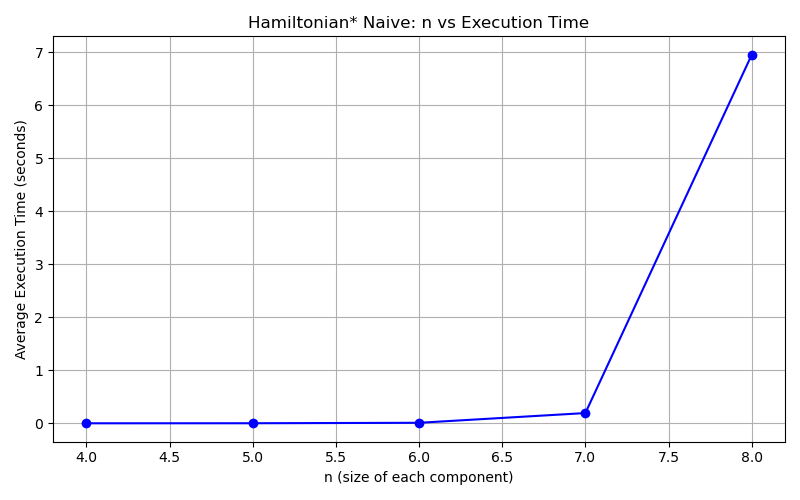
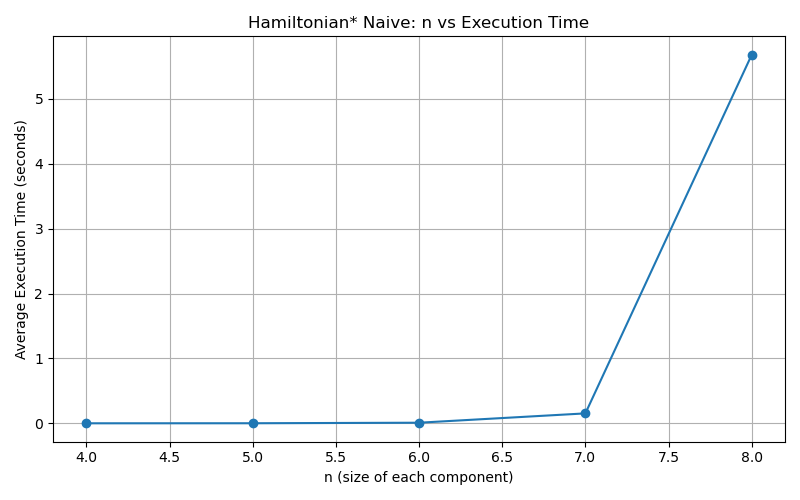
results with randomized (graph, start, end) for every test in the same ns

diff --git a/src/experiment.py b/src/experiment.py
@@ -1,48 +1,52 @@
 import time
 import matplotlib.pyplot as plt
 import random
-from src.graph_construction import generate_tricky_graph  # adjust name if needed
-from src.solution import hamiltonian_naive, hamiltonian_optimized
+from graph_construction import generate_tricky_graph
+from solution import hamiltonian_optimized, hamiltonian_naive    # or hamiltonian_naive
 
 random.seed(31)
 
-def measure_runtime(func, *args, rounds=10):
-    """Return average execution time over multiple rounds."""
+def measure_runtime(func, n, rounds=10):
+    """
+    Measure average runtime across different random graphs.
+    Graph construction is excluded from timing.
+    """
     times = []
     for _ in range(rounds):
-        start_t = time.perf_counter()
-        func(*args)
-        end_t = time.perf_counter()
-        times.append(end_t - start_t)
+        # generate a new graph (excluded from timing)
+        graph, start, end = generate_tricky_graph(n)
+
+        # measure only Hamiltonian* call
+        t0 = time.perf_counter()
+        func(graph, start, end)
+        t1 = time.perf_counter()
+
+        times.append(t1 - t0)
     return sum(times) / len(times)
 
+
 def main():
-    ns = [4, 5, 6, 7, 8]   # ≥4, at least five different values
+    ns = [4, 5, 6, 7, 8]   # ≥ 4, at least 5 different values
     avg_times = []
 
     for n in ns:
         print(f"\nRunning experiments for n = {n}...")
-        N = 3 * n
 
-        # generate graph once per round group (excluded from timing)
-        graph, start, end = generate_tricky_graph(n)
-
-        # measure runtime for 10 runs (excluding construction)
-        avg_time = measure_runtime(hamiltonian_optimized, graph, start, end, rounds=10)
+        avg_time = measure_runtime(hamiltonian_naive, n, rounds=10)
         avg_times.append(avg_time)
 
         print(f"Average time for n={n}: {avg_time:.7f} seconds")
 
-    # plot results
     plt.figure(figsize=(8,5))
-    plt.plot(ns, avg_times, marker='o', linestyle='-', color='b')
+    plt.plot(ns, avg_times, marker='o', linestyle='-')
     plt.xlabel("n (size of each component)")
     plt.ylabel("Average Execution Time (seconds)")
-    plt.title("Hamiltonian* Optimized: n vs Execution Time")
+    plt.title("Hamiltonian* Naive: n vs Execution Time")
     plt.grid(True)
     plt.tight_layout()
-    plt.savefig("optimized_n_vs_time.png")
+    plt.savefig("naive_n_vs_time.png")
     plt.show()
+
 
 if __name__ == "__main__":
     main()
